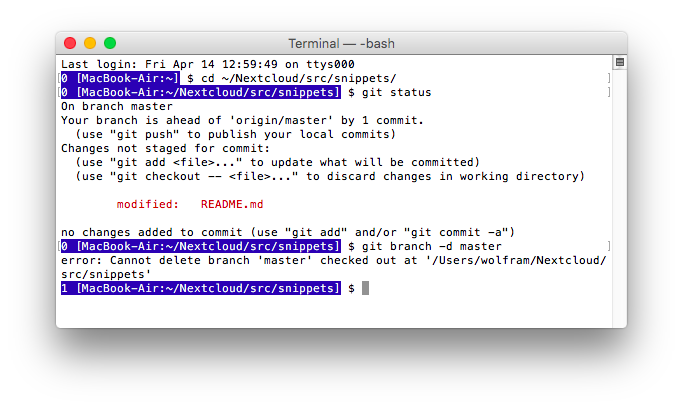
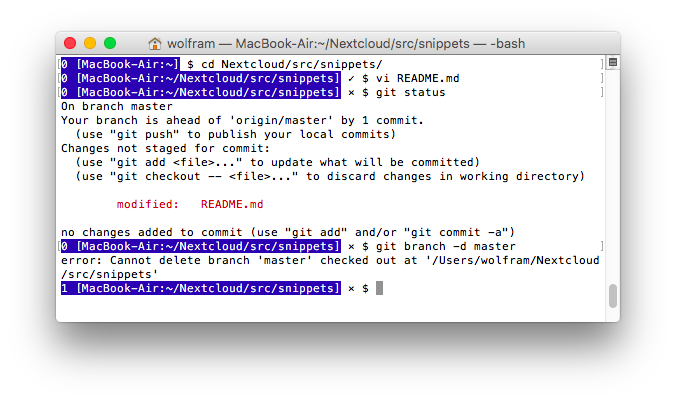
Show git status in shell prompt

Changed region(s): [[0.0621, 0.0896, 0.932, 0.4478], [0.0621, 0.4776, 0.9009, 0.7463], [0.9009, 0.6866, 0.932, 0.7761]]

diff --git a/README.md b/README.md
@@ -226,12 +226,18 @@ endif (CCACHE_FOUND)
 
 ### Shell Prompt
 
-Show the last command's exit status in the shell prompt, and show the prompt with a dark background to make it stand out better. Put the following into your .profile or .bashrc.
+Show the last command's exit status in the shell prompt, and show the prompt with a dark background to make it stand out better. When in a git repository, show a check mark or cross depending on whether the working tree is clean.
+
+Put the following into your .profile or .bashrc.
 
 ```sh
+gitstatus() {
+    [ -d .git ] || return
+    git status --short | grep . &>/dev/null && echo "× " || echo "✓ "
+}
 PS1BEFORE=$(tput sgr0)$(tput rev)$(tput setaf 4)
 PS1AFTER=$(tput sgr0)
-PS1='\[$PS1BEFORE\]$? [\h:\w]\[$PS1AFTER\] \$ '
+PS1='\[$PS1BEFORE\]$? [\h:\w]\[$PS1AFTER\] $(gitstatus)\$ '
 ```
 
 ![Screenshot showing bash prompt](prompt.png)
